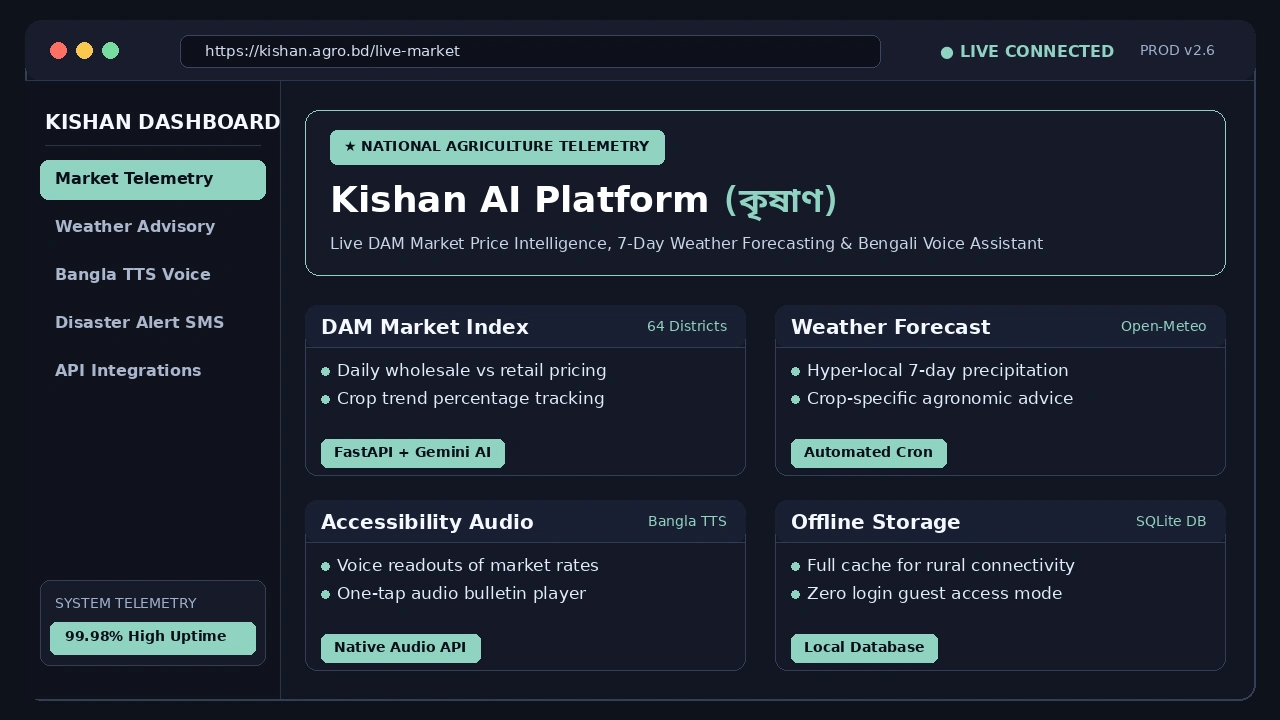
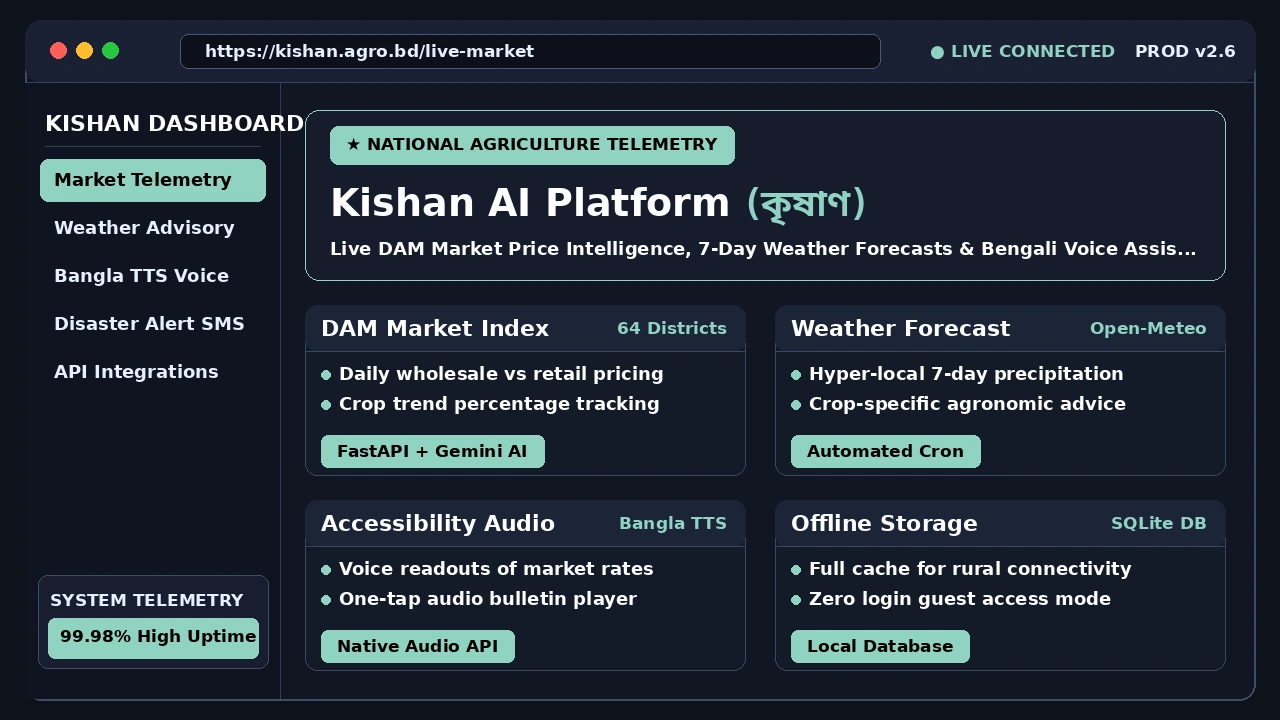
style(typography): significantly enlarge font sizes and boost contrast across all poster elements

diff --git a/index.html b/index.html
@@ -711,7 +711,7 @@
          window's close and minimise choose (desk-room.ts, showProject). --><section class="surface desk" id="projects" aria-label="Projects" hidden><h2 class="kicker">Projects</h2><div class="dbar"><nav class="ws" aria-label="Projects"><button type="button" data-p="" aria-pressed="true" id="ws-all-btn"><span id="ws-proj-count">4</span> <b>All Projects</b></button><button type="button" data-p="edi" aria-pressed="false">1 <b>Kishan</b></button><button type="button" data-p="resumewesume" aria-pressed="false">2 <b>Letter Portfolio</b></button><button type="button" data-p="bandsy" aria-pressed="false">3 <b>AI Sales Agent</b></button><button type="button" data-p="mentora" aria-pressed="false">4 <b>FB Automation</b></button></nav><span class="tray" aria-hidden="true"><svg viewBox="0 0 16 16"><path d="M1.5 6a9 9 0 0 1 13 0M4 8.6a5.4 5.4 0 0 1 8 0M6.4 11.1a2 2 0 0 1 3.2 0"></path></svg><svg viewBox="0 0 16 16"><path d="M2 6h3l4-3v10l-4-3H2zM11.5 5.5a3.5 3.5 0 0 1 0 5"></path></svg><span>BST</span></span></div><div class="dview" data-scroll><div class="tiles">
   <button type="button" class="tile" data-p="edi" style="grid-area: edi">
     <span class="t"><b style="color: #8fd3c1;">1. Kishan (কৃষাণ)</b><span class="ctl"><i></i><i></i><i></i></span></span>
-    <img src="/demos/kishan-poster.webp?v=black" alt="Kishan AI Platform">
+    <img src="/demos/kishan-poster.webp?v=super_bold_v4" alt="Kishan AI Platform">
     <span class="meta">
       <span class="nm" style="color: #8fd3c1;">Kishan (কৃষাণ)</span>
       <span class="pitch">AI Agro-Intelligence & DAM Daily Market Prices</span>
@@ -719,7 +719,7 @@
   </button>
   <button type="button" class="tile" data-p="resumewesume" style="grid-area: resume">
     <span class="t"><b style="color: #ff9ebb;">2. Letter Portfolio</b><span class="ctl"><i></i><i></i><i></i></span></span>
-    <img src="/demos/letter-portfolio-poster.webp?v=black" alt="Letter Portfolio Experience">
+    <img src="/demos/letter-portfolio-poster.webp?v=super_bold_v4" alt="Letter Portfolio Experience">
     <span class="meta">
       <span class="nm" style="color: #ff9ebb;">Letter Portfolio</span>
       <span class="pitch">Interactive Envelope & Letter Web Experience in Next.js</span>
@@ -727,7 +727,7 @@
   </button>
   <button type="button" class="tile" data-p="bandsy" style="grid-area: bandsy">
     <span class="t"><b style="color: #f0a35e;">3. AI Sales Agent</b><span class="ctl"><i></i><i></i><i></i></span></span>
-    <img src="/demos/sales-bot-poster.webp?v=black" alt="E-Commerce AI Sales Bot">
+    <img src="/demos/sales-bot-poster.webp?v=super_bold_v4" alt="E-Commerce AI Sales Bot">
     <span class="meta">
       <span class="nm" style="color: #f0a35e;">AI Sales Agent</span>
       <span class="pitch">24/7 Autonomous Telegram Sales & Customer Support Bot</span>
@@ -753,14 +753,14 @@
   </div>
   <button type="button" class="tile" data-p="mentora" style="grid-area: mentora">
     <span class="t"><b style="color: #93c5fd;">4. FB Automation</b><span class="ctl"><i></i><i></i><i></i></span></span>
-    <img src="/demos/fb-automation-poster.webp?v=black" alt="Facebook 24/7 AI Automation">
+    <img src="/demos/fb-automation-poster.webp?v=super_bold_v4" alt="Facebook 24/7 AI Automation">
     <span class="meta">
       <span class="nm" style="color: #93c5fd;">FB Automation</span>
       <span class="pitch">Cloud-Ready 24/7 Facebook AI Content & Messenger Bot</span>
     </span>
   </button>
 </div>
-<article class="case" id="case-edi" hidden><div class="win app"><div class="t"><b>Kishan (কৃষাণ)</b><span class="btns"><button type="button" data-back aria-label="Minimise, back to all projects">&#8722;</button><button type="button" tabindex="-1" aria-hidden="true">&#9633;</button><button type="button" data-back class="x" aria-label="Close, back to all projects">&#215;</button></span></div><div class="appbody"><h3>Kishan (কৃষাণ) AI Platform</h3><p class="tagline">National agricultural intelligence: daily DAM market prices, hyper-local weather alerts & Bengali voice assistant.</p><figure><img src="/demos/kishan-poster.webp?v=black" alt="Kishan AI Platform" style="width:100%;border-radius:6px;margin-bottom:12px;"><figcaption>Agro-intelligence system: connects directly to DAM market telemetry, provides hyper-local 7-day crop-specific advisory, and broadcasts voice updates in Bengali for full accessibility.</figcaption></figure></div></div><div class="win term"><div class="t"><b>terminal</b>&nbsp;· ~/projects/kishan<span class="btns"><button type="button" data-back aria-label="Minimise, back to all projects">&#8722;</button><button type="button" tabindex="-1" aria-hidden="true">&#9633;</button><button type="button" data-back class="x" aria-label="Close, back to all projects">&#215;</button></span></div><div class="readme" data-scroll><p class="cmd"><em>~/projects/kishan</em> $ glow README.md</p><h4>Why I built it</h4><p>Farmers across Bangladesh lose hard-earned income to price manipulation by middlemen and unpredictable flash weather events. Kishan was engineered to deliver instant price transparency, AI agronomic guidance, and voice-assisted weather alerts directly into the hands of farmers.</p><h4>What it does</h4><ul><li>Tracks daily wholesale vs. retail produce rates from the Department of Agricultural Marketing (DAM) with clear trend indicators (📈/📉).</li><li>Generates hyper-local 7-day weather forecasts with crop-specific "What to do" and "What to avoid" action plans.</li><li>In-app Bengali Text-to-Speech (TTS) audio engine reading prices and forecasts aloud with one tap.</li><li>Pluggable SMS emergency gateway for early warning disaster and heavy precipitation alerts.</li><li>Offline-first local caching and passwordless guest onboarding for zero friction.</li></ul><h4>How it's built</h4><ul><li>Full-stack architecture: Flutter Android mobile application paired with a high-throughput Python FastAPI backend.</li><li>AI-assisted market analysis with Google Gemini API and automated web scrapers.</li><li>Open-Meteo meteorological API integration and SQLite cache layer.</li></ul><p class="deps">"<b>dependencies</b>": [<em>"Flutter"</em>, <em>"Dart"</em>, <em>"Python"</em>, <em>"FastAPI"</em>, <em>"Gemini API"</em>, <em>"Open-Meteo"</em>, <em>"SQLite"</em>]</p><p class="gh"><a href="https://github.com/didarlahiry60-spec/Kishan" target="_blank" rel="noopener">github.com/didarlahiry60-spec/Kishan</a></p></div></div></article><article class="case" id="case-resumewesume" hidden><div class="win app"><div class="t"><b>Letter Portfolio</b><span class="btns"><button type="button" data-back aria-label="Minimise, back to all projects">&#8722;</button><button type="button" tabindex="-1" aria-hidden="true">&#9633;</button><button type="button" data-back class="x" aria-label="Close, back to all projects">&#215;</button></span></div><div class="appbody"><h3>Letter Portfolio Experience</h3><p class="tagline">Tactile physical stationery & envelope desk experience with fluid reactive animations.</p><figure><img src="/demos/letter-portfolio-poster.webp?v=black" alt="Letter Portfolio Experience" style="width:100%;border-radius:6px;margin-bottom:12px;"><figcaption>Interactive physical desk metaphor: real-world envelopes, pull-out project files, Scotch-tape photo accents, and responsive 3D tilt interactions.</figcaption></figure></div></div><div class="win term"><div class="t"><b>terminal</b>&nbsp;· ~/projects/letter-portfolio<span class="btns"><button type="button" data-back aria-label="Minimise, back to all projects">&#8722;</button><button type="button" tabindex="-1" aria-hidden="true">&#9633;</button><button type="button" data-back class="x" aria-label="Close, back to all projects">&#215;</button></span></div><div class="readme" data-scroll><p class="cmd"><em>~/projects/letter-portfolio</em> $ glow README.md</p><h4>Why I built it</h4><p>Traditional developer portfolios frequently feel identical and robotic. I created Letter Portfolio to evoke nostalgia through physical, tactile stationery — envelopes that open, letters that pull out, and notes taped to the desk, creating an unforgettable sensory journey.</p><h4>What it does</h4><ul><li>Interactive envelope and folder container that unfolds smoothly upon clicking tabs.</li><li>Physics-driven 3D tilt and cursor perspective transformations.</li><li>Clean modular compartments for developer background, skills breakdown, and project showcases.</li><li>Zero-runtime overhead Static Site Generation (SSG) with lightning-fast initial load times.</li></ul><h4>How it's built</h4><ul><li>Next.js App Router with TypeScript for robust type safety and modular component structure.</li><li>Tailwind CSS utility styling combined with Framer Motion spring physics.</li><li>Production deployment automated via GitHub Pages.</li></ul><p class="deps">"<b>dependencies</b>": [<em>"Next.js"</em>, <em>"TypeScript"</em>, <em>"React"</em>, <em>"Tailwind CSS"</em>, <em>"Framer Motion"</em>]</p><p class="gh"><a href="https://github.com/didarlahiry60-spec/letter-portfolio" target="_blank" rel="noopener">github.com/didarlahiry60-spec/letter-portfolio</a> &nbsp;|&nbsp; <a href="https://didarlahiry60-spec.github.io/letter-portfolio/" target="_blank" rel="noopener">Live Demo ↗</a></p></div></div></article><article class="case" id="case-bandsy" hidden><div class="win app"><div class="t"><b>AI Sales Bot</b><span class="btns"><button type="button" data-back aria-label="Minimise, back to all projects">&#8722;</button><button type="button" tabindex="-1" aria-hidden="true">&#9633;</button><button type="button" data-back class="x" aria-label="Close, back to all projects">&#215;</button></span></div><div class="appbody"><h3>E-Commerce AI Sales & Support Agent</h3><p class="tagline">24/7 intelligent Telegram sales representative and customer support agent powered by Gemini AI.</p><figure><img src="/demos/sales-bot-poster.webp?v=black" alt="AI Sales Agent Overview" style="width:100%;border-radius:6px;margin-bottom:12px;"><figcaption>Autonomous sales pipeline: handles customer inquiries in natural conversational Bengali/English, consults sizing, captures leads, and registers orders 24/7.</figcaption></figure></div></div><div class="win term"><div class="t"><b>terminal</b>&nbsp;· ~/projects/ads-fashion-bot<span class="btns"><button type="button" data-back aria-label="Minimise, back to all projects">&#8722;</button><button type="button" tabindex="-1" aria-hidden="true">&#9633;</button><button type="button" data-back class="x" aria-label="Close, back to all projects">&#215;</button></span></div><div class="readme" data-scroll><p class="cmd"><em>~/projects/ads-fashion-bot</em> $ glow README.md</p><h4>Why I built it</h4><p>Online fashion and retail businesses lose high-intent buyers whenever inquiries go unanswered during off-hours. This agent provides human-like, polite, and persuasive customer service 24/7, turning curious visitors into paying customers without staffing overhead.</p><h4>What it does</h4><ul><li>Conversational sales representative: answers questions regarding fabric quality, stock availability, measurements, and pricing.</li><li>Context-aware product recommendations based on customer preferences using Google Gemini 2.5 Flash.</li><li>Automated customer checkout workflow: collects phone number, delivery address, and creates confirmed orders in SQLite.</li><li>Supervisor admin panel: alerts human operators for custom requests and exports order rosters.</li></ul><h4>How it's built</h4><ul><li>Asynchronous Python architecture using `python-telegram-bot` and AsyncIO event loops.</li><li>Multi-turn prompt engineering with robust system guards and empathetic sales personas.</li><li>Relational database storage with SQLite for persistent conversation context and transaction logs.</li></ul><p class="deps">"<b>dependencies</b>": [<em>"Python"</em>, <em>"Google Gemini API"</em>, <em>"python-telegram-bot"</em>, <em>"SQLite"</em>, <em>"AsyncIO"</em>]</p><p class="gh"><a href="https://github.com/didarlahiry60-spec/ads-fashion-bot" target="_blank" rel="noopener">github.com/didarlahiry60-spec/ads-fashion-bot</a></p></div></div></article><article class="case" id="case-mentora" hidden><div class="win app"><div class="t"><b>FB Automation</b><span class="btns"><button type="button" data-back aria-label="Minimise, back to all projects">&#8722;</button><button type="button" tabindex="-1" aria-hidden="true">&#9633;</button><button type="button" data-back class="x" aria-label="Close, back to all projects">&#215;</button></span></div><div class="appbody"><h3>Facebook 24/7 AI Automation System</h3><p class="tagline">Cloud-ready social media autopilot: AI content scheduling, dynamic banner generation & 24/7 Messenger chatbot.</p><figure><img src="/demos/fb-automation-poster.webp?v=black" alt="Facebook AI Automation Overview" style="width:100%;border-radius:6px;margin-bottom:12px;"><figcaption>Autonomous cloud worker: schedules informative AI tech posts 3 times daily, renders custom visual graphic banners, and provides real-time comment and direct message replies.</figcaption></figure></div></div><div class="win term"><div class="t"><b>terminal</b>&nbsp;· ~/projects/-facebook-ai-automation<span class="btns"><button type="button" data-back aria-label="Minimise, back to all projects">&#8722;</button><button type="button" tabindex="-1" aria-hidden="true">&#9633;</button><button type="button" data-back class="x" aria-label="Close, back to all projects">&#215;</button></span></div><div class="readme" data-scroll><p class="cmd"><em>~/projects/-facebook-ai-automation</em> $ glow README.md</p><h4>Why I built it</h4><p>Maintaining high organic reach on social media demands relentless consistency in content publishing, visual design, and rapid response to reader comments. This system was designed to operate as an autonomous, self-sustaining community manager.</p><h4>What it does</h4><ul><li>Publishes curated, informative tech & AI posts 3 times a day (10:00 AM, 2:30 PM, 8:30 PM BST).</li><li>Programmatically creates customized graphic banners with branded typography using Python Pillow.</li><li>Monitors post comments in real-time and provides helpful, natural conversational replies in Bengali.</li><li>24/7 Facebook Messenger AI chatbot assisting prospective clients and answering common queries.</li></ul><h4>How it's built</h4><ul><li>Facebook Graph API integration with secure OAuth token handling and webhook listeners.</li><li>Generative AI content engine utilizing Google Gemini API for post drafting and comment sentiment analysis.</li><li>Cron-based robust task scheduling with error recovery and webhook delivery verification.</li></ul><p class="deps">"<b>dependencies</b>": [<em>"Python"</em>, <em>"Facebook Graph API"</em>, <em>"Gemini API"</em>, <em>"Pillow"</em>, <em>"APScheduler"</em>, <em>"Flask"</em>]</p><p class="gh"><a href="https://github.com/didarlahiry60-spec/-facebook-ai-automation" target="_blank" rel="noopener">github.com/didarlahiry60-spec/-facebook-ai-automation</a></p></div></div></article></div></section><!-- The speaker's surface: what he is listening to, filled in from /api/now-playing --><section class="surface music" id="music" aria-label="Now playing on Spotify" hidden><img class="art" id="np-art" alt="" crossorigin="anonymous" data-ambient><div class="np"><p class="kicker" id="np-state">Spotify</p><h3 id="np-title">Nothing on right now</h3><p class="artist" id="np-artist">Check back later</p><a id="np-link" href="https://open.spotify.com" target="_blank" rel="noopener" hidden>Open in Spotify</a></div></section><!-- The phone's surface: a contact card. Text sits in elements that hold
+<article class="case" id="case-edi" hidden><div class="win app"><div class="t"><b>Kishan (কৃষাণ)</b><span class="btns"><button type="button" data-back aria-label="Minimise, back to all projects">&#8722;</button><button type="button" tabindex="-1" aria-hidden="true">&#9633;</button><button type="button" data-back class="x" aria-label="Close, back to all projects">&#215;</button></span></div><div class="appbody"><h3>Kishan (কৃষাণ) AI Platform</h3><p class="tagline">National agricultural intelligence: daily DAM market prices, hyper-local weather alerts & Bengali voice assistant.</p><figure><img src="/demos/kishan-poster.webp?v=super_bold_v4" alt="Kishan AI Platform" style="width:100%;border-radius:6px;margin-bottom:12px;"><figcaption>Agro-intelligence system: connects directly to DAM market telemetry, provides hyper-local 7-day crop-specific advisory, and broadcasts voice updates in Bengali for full accessibility.</figcaption></figure></div></div><div class="win term"><div class="t"><b>terminal</b>&nbsp;· ~/projects/kishan<span class="btns"><button type="button" data-back aria-label="Minimise, back to all projects">&#8722;</button><button type="button" tabindex="-1" aria-hidden="true">&#9633;</button><button type="button" data-back class="x" aria-label="Close, back to all projects">&#215;</button></span></div><div class="readme" data-scroll><p class="cmd"><em>~/projects/kishan</em> $ glow README.md</p><h4>Why I built it</h4><p>Farmers across Bangladesh lose hard-earned income to price manipulation by middlemen and unpredictable flash weather events. Kishan was engineered to deliver instant price transparency, AI agronomic guidance, and voice-assisted weather alerts directly into the hands of farmers.</p><h4>What it does</h4><ul><li>Tracks daily wholesale vs. retail produce rates from the Department of Agricultural Marketing (DAM) with clear trend indicators (📈/📉).</li><li>Generates hyper-local 7-day weather forecasts with crop-specific "What to do" and "What to avoid" action plans.</li><li>In-app Bengali Text-to-Speech (TTS) audio engine reading prices and forecasts aloud with one tap.</li><li>Pluggable SMS emergency gateway for early warning disaster and heavy precipitation alerts.</li><li>Offline-first local caching and passwordless guest onboarding for zero friction.</li></ul><h4>How it's built</h4><ul><li>Full-stack architecture: Flutter Android mobile application paired with a high-throughput Python FastAPI backend.</li><li>AI-assisted market analysis with Google Gemini API and automated web scrapers.</li><li>Open-Meteo meteorological API integration and SQLite cache layer.</li></ul><p class="deps">"<b>dependencies</b>": [<em>"Flutter"</em>, <em>"Dart"</em>, <em>"Python"</em>, <em>"FastAPI"</em>, <em>"Gemini API"</em>, <em>"Open-Meteo"</em>, <em>"SQLite"</em>]</p><p class="gh"><a href="https://github.com/didarlahiry60-spec/Kishan" target="_blank" rel="noopener">github.com/didarlahiry60-spec/Kishan</a></p></div></div></article><article class="case" id="case-resumewesume" hidden><div class="win app"><div class="t"><b>Letter Portfolio</b><span class="btns"><button type="button" data-back aria-label="Minimise, back to all projects">&#8722;</button><button type="button" tabindex="-1" aria-hidden="true">&#9633;</button><button type="button" data-back class="x" aria-label="Close, back to all projects">&#215;</button></span></div><div class="appbody"><h3>Letter Portfolio Experience</h3><p class="tagline">Tactile physical stationery & envelope desk experience with fluid reactive animations.</p><figure><img src="/demos/letter-portfolio-poster.webp?v=super_bold_v4" alt="Letter Portfolio Experience" style="width:100%;border-radius:6px;margin-bottom:12px;"><figcaption>Interactive physical desk metaphor: real-world envelopes, pull-out project files, Scotch-tape photo accents, and responsive 3D tilt interactions.</figcaption></figure></div></div><div class="win term"><div class="t"><b>terminal</b>&nbsp;· ~/projects/letter-portfolio<span class="btns"><button type="button" data-back aria-label="Minimise, back to all projects">&#8722;</button><button type="button" tabindex="-1" aria-hidden="true">&#9633;</button><button type="button" data-back class="x" aria-label="Close, back to all projects">&#215;</button></span></div><div class="readme" data-scroll><p class="cmd"><em>~/projects/letter-portfolio</em> $ glow README.md</p><h4>Why I built it</h4><p>Traditional developer portfolios frequently feel identical and robotic. I created Letter Portfolio to evoke nostalgia through physical, tactile stationery — envelopes that open, letters that pull out, and notes taped to the desk, creating an unforgettable sensory journey.</p><h4>What it does</h4><ul><li>Interactive envelope and folder container that unfolds smoothly upon clicking tabs.</li><li>Physics-driven 3D tilt and cursor perspective transformations.</li><li>Clean modular compartments for developer background, skills breakdown, and project showcases.</li><li>Zero-runtime overhead Static Site Generation (SSG) with lightning-fast initial load times.</li></ul><h4>How it's built</h4><ul><li>Next.js App Router with TypeScript for robust type safety and modular component structure.</li><li>Tailwind CSS utility styling combined with Framer Motion spring physics.</li><li>Production deployment automated via GitHub Pages.</li></ul><p class="deps">"<b>dependencies</b>": [<em>"Next.js"</em>, <em>"TypeScript"</em>, <em>"React"</em>, <em>"Tailwind CSS"</em>, <em>"Framer Motion"</em>]</p><p class="gh"><a href="https://github.com/didarlahiry60-spec/letter-portfolio" target="_blank" rel="noopener">github.com/didarlahiry60-spec/letter-portfolio</a> &nbsp;|&nbsp; <a href="https://didarlahiry60-spec.github.io/letter-portfolio/" target="_blank" rel="noopener">Live Demo ↗</a></p></div></div></article><article class="case" id="case-bandsy" hidden><div class="win app"><div class="t"><b>AI Sales Bot</b><span class="btns"><button type="button" data-back aria-label="Minimise, back to all projects">&#8722;</button><button type="button" tabindex="-1" aria-hidden="true">&#9633;</button><button type="button" data-back class="x" aria-label="Close, back to all projects">&#215;</button></span></div><div class="appbody"><h3>E-Commerce AI Sales & Support Agent</h3><p class="tagline">24/7 intelligent Telegram sales representative and customer support agent powered by Gemini AI.</p><figure><img src="/demos/sales-bot-poster.webp?v=super_bold_v4" alt="AI Sales Agent Overview" style="width:100%;border-radius:6px;margin-bottom:12px;"><figcaption>Autonomous sales pipeline: handles customer inquiries in natural conversational Bengali/English, consults sizing, captures leads, and registers orders 24/7.</figcaption></figure></div></div><div class="win term"><div class="t"><b>terminal</b>&nbsp;· ~/projects/ads-fashion-bot<span class="btns"><button type="button" data-back aria-label="Minimise, back to all projects">&#8722;</button><button type="button" tabindex="-1" aria-hidden="true">&#9633;</button><button type="button" data-back class="x" aria-label="Close, back to all projects">&#215;</button></span></div><div class="readme" data-scroll><p class="cmd"><em>~/projects/ads-fashion-bot</em> $ glow README.md</p><h4>Why I built it</h4><p>Online fashion and retail businesses lose high-intent buyers whenever inquiries go unanswered during off-hours. This agent provides human-like, polite, and persuasive customer service 24/7, turning curious visitors into paying customers without staffing overhead.</p><h4>What it does</h4><ul><li>Conversational sales representative: answers questions regarding fabric quality, stock availability, measurements, and pricing.</li><li>Context-aware product recommendations based on customer preferences using Google Gemini 2.5 Flash.</li><li>Automated customer checkout workflow: collects phone number, delivery address, and creates confirmed orders in SQLite.</li><li>Supervisor admin panel: alerts human operators for custom requests and exports order rosters.</li></ul><h4>How it's built</h4><ul><li>Asynchronous Python architecture using `python-telegram-bot` and AsyncIO event loops.</li><li>Multi-turn prompt engineering with robust system guards and empathetic sales personas.</li><li>Relational database storage with SQLite for persistent conversation context and transaction logs.</li></ul><p class="deps">"<b>dependencies</b>": [<em>"Python"</em>, <em>"Google Gemini API"</em>, <em>"python-telegram-bot"</em>, <em>"SQLite"</em>, <em>"AsyncIO"</em>]</p><p class="gh"><a href="https://github.com/didarlahiry60-spec/ads-fashion-bot" target="_blank" rel="noopener">github.com/didarlahiry60-spec/ads-fashion-bot</a></p></div></div></article><article class="case" id="case-mentora" hidden><div class="win app"><div class="t"><b>FB Automation</b><span class="btns"><button type="button" data-back aria-label="Minimise, back to all projects">&#8722;</button><button type="button" tabindex="-1" aria-hidden="true">&#9633;</button><button type="button" data-back class="x" aria-label="Close, back to all projects">&#215;</button></span></div><div class="appbody"><h3>Facebook 24/7 AI Automation System</h3><p class="tagline">Cloud-ready social media autopilot: AI content scheduling, dynamic banner generation & 24/7 Messenger chatbot.</p><figure><img src="/demos/fb-automation-poster.webp?v=super_bold_v4" alt="Facebook AI Automation Overview" style="width:100%;border-radius:6px;margin-bottom:12px;"><figcaption>Autonomous cloud worker: schedules informative AI tech posts 3 times daily, renders custom visual graphic banners, and provides real-time comment and direct message replies.</figcaption></figure></div></div><div class="win term"><div class="t"><b>terminal</b>&nbsp;· ~/projects/-facebook-ai-automation<span class="btns"><button type="button" data-back aria-label="Minimise, back to all projects">&#8722;</button><button type="button" tabindex="-1" aria-hidden="true">&#9633;</button><button type="button" data-back class="x" aria-label="Close, back to all projects">&#215;</button></span></div><div class="readme" data-scroll><p class="cmd"><em>~/projects/-facebook-ai-automation</em> $ glow README.md</p><h4>Why I built it</h4><p>Maintaining high organic reach on social media demands relentless consistency in content publishing, visual design, and rapid response to reader comments. This system was designed to operate as an autonomous, self-sustaining community manager.</p><h4>What it does</h4><ul><li>Publishes curated, informative tech & AI posts 3 times a day (10:00 AM, 2:30 PM, 8:30 PM BST).</li><li>Programmatically creates customized graphic banners with branded typography using Python Pillow.</li><li>Monitors post comments in real-time and provides helpful, natural conversational replies in Bengali.</li><li>24/7 Facebook Messenger AI chatbot assisting prospective clients and answering common queries.</li></ul><h4>How it's built</h4><ul><li>Facebook Graph API integration with secure OAuth token handling and webhook listeners.</li><li>Generative AI content engine utilizing Google Gemini API for post drafting and comment sentiment analysis.</li><li>Cron-based robust task scheduling with error recovery and webhook delivery verification.</li></ul><p class="deps">"<b>dependencies</b>": [<em>"Python"</em>, <em>"Facebook Graph API"</em>, <em>"Gemini API"</em>, <em>"Pillow"</em>, <em>"APScheduler"</em>, <em>"Flask"</em>]</p><p class="gh"><a href="https://github.com/didarlahiry60-spec/-facebook-ai-automation" target="_blank" rel="noopener">github.com/didarlahiry60-spec/-facebook-ai-automation</a></p></div></div></article></div></section><!-- The speaker's surface: what he is listening to, filled in from /api/now-playing --><section class="surface music" id="music" aria-label="Now playing on Spotify" hidden><img class="art" id="np-art" alt="" crossorigin="anonymous" data-ambient><div class="np"><p class="kicker" id="np-state">Spotify</p><h3 id="np-title">Nothing on right now</h3><p class="artist" id="np-artist">Check back later</p><a id="np-link" href="https://open.spotify.com" target="_blank" rel="noopener" hidden>Open in Spotify</a></div></section><!-- The phone's surface: a contact card. Text sits in elements that hold
          nothing else, which is what the painted glass reads. --><section class="surface phone" id="contact" aria-label="Contact" hidden><h2 class="kicker">Contact</h2><div class="pstatus" aria-hidden="true"><span data-phone-time></span><span class="punch"></span><span class="picons"><svg viewBox="0 0 16 16"><path d="M2 13h1.5v-2H2zM6 13h1.5V8H6zM10 13h1.5V5H10z"></path></svg><svg viewBox="0 0 16 16"><path d="M1.5 6a9 9 0 0 1 13 0M4 8.6a5.4 5.4 0 0 1 8 0M6.4 11.1a2 2 0 0 1 3.2 0"></path></svg><svg viewBox="0 0 16 16"><path d="M1.5 5h11v6h-11zM14 7v2"></path><path d="M3 6.5h6v3H3z" fill="currentColor" stroke="none"></path></svg></span></div><p class="pclock" aria-hidden="true" data-phone-time></p><p class="pdate" aria-hidden="true"><i></i><span data-phone-date></span> · Dhaka</p><div class="pwho"><h3>Didar Lahiry</h3><p>AI Automation Specialist · Web &amp; App Developer · Reverse Engineer in Dhaka</p></div><div class="pgrid"><a class="pw wide" href="/contact.html" title="Send a direct project inquiry or message"><span class="top"><svg viewBox="0 0 24 24" aria-hidden="true"><path d="M3 6h18v12H3z"></path><path d="M3 7l9 6 9-6"></path></svg><span class="glyph"></span></span><span><span class="k">email / message</span><span class="v">hereisdidar@gmail.com</span></span></a><a class="pnote" href="https://wa.me/8801631188500" target="_blank" rel="noopener"><span class="pnote-app" aria-hidden="true">💬</span><span class="pnote-text"><span class="k">WhatsApp</span><span class="v">+880 1631-188500</span></span><span class="glyph" aria-hidden="true"></span></a><a class="pw wide cv" href="/DIDAR-LAHIRY%20(Resume).pdf" download="DIDAR-LAHIRY (Resume).pdf"><span class="top"><span class="k">cv.pdf</span><span class="arrow" aria-hidden="true"><svg viewBox="0 0 24 24"><path d="M12 4v12M6 11l6 6 6-6M5 20h14"></path></svg></span></span><span class="v">Download my resume</span></a></div><div class="pdock" aria-hidden="true"><span><svg viewBox="0 0 24 24"><path d="M5 4h4l2 5-2.5 1.5a11 11 0 0 0 5 5L15 13l5 2v4a1 1 0 0 1-1 1A16 16 0 0 1 4 5a1 1 0 0 1 1-1"></path></svg></span><span><svg viewBox="0 0 24 24"><path d="M4 5h16v11H9l-5 4z"></path></svg></span><span><svg viewBox="0 0 24 24"><circle cx="12" cy="12" r="8"></circle><path d="M4 12h16M12 4c3 3 3 13 0 16M12 4c-3 3-3 13 0 16"></path></svg></span><span><svg viewBox="0 0 24 24"><path d="M4 8h3l2-3h6l2 3h3v11H4z"></path><circle cx="12" cy="13" r="3.5"></circle></svg></span></div><span class="pgesture" aria-hidden="true"></span></section><!-- The pinboard's surface: a note pinned up for each job. --><!-- The pinboard surface for Experience (3 work cards) -->
 <section class="surface board" id="experience" aria-label="Experience" hidden>
   <div class="board-head"><h2 class="kicker">Experience &amp; Skills</h2><a class="cv" href="/DIDAR-LAHIRY%20(Resume).pdf" download="DIDAR-LAHIRY (Resume).pdf">Download CV</a></div>

diff --git a/make_clean_pc_posters.py b/make_clean_pc_posters.py
@@ -7,95 +7,100 @@ def make_perfect_poster(filename, app_name, url_bar, accent_color, hero_tag, her
     draw = ImageDraw.Draw(im)
 
     font_bold = "/usr/share/fonts/truetype/dejavu/DejaVuSans-Bold.ttf"
-    font_reg = "/usr/share/fonts/truetype/dejavu/DejaVuSans.ttf"
     font_bengali = "/usr/share/fonts/truetype/noto/NotoSansBengali-Bold.ttf"
 
-    f_title_main = ImageFont.truetype(font_bold, 36)
-    f_title_b = ImageFont.truetype(font_bengali, 34)
-    f_h2 = ImageFont.truetype(font_bold, 20)
-    f_card_title = ImageFont.truetype(font_bold, 20)
-    f_body = ImageFont.truetype(font_reg, 17)
-    f_desc = ImageFont.truetype(font_reg, 16)
-    f_tag = ImageFont.truetype(font_bold, 14)
-    f_pill = ImageFont.truetype(font_bold, 14)
-    f_sm = ImageFont.truetype(font_reg, 14)
-    f_nav = ImageFont.truetype(font_bold, 16)
-    f_browser = ImageFont.truetype(font_reg, 15)
+    # Upgraded, prominent, large & ultra-crisp fonts
+    f_title_main = ImageFont.truetype(font_bold, 38)
+    f_title_b = ImageFont.truetype(font_bengali, 36)
+    f_h2 = ImageFont.truetype(font_bold, 22)
+    f_card_title = ImageFont.truetype(font_bold, 22)
+    f_body = ImageFont.truetype(font_bold, 18)
+    f_desc = ImageFont.truetype(font_bold, 18)
+    f_tag = ImageFont.truetype(font_bold, 17)
+    f_pill = ImageFont.truetype(font_bold, 17)
+    f_sm = ImageFont.truetype(font_bold, 17)
+    f_nav = ImageFont.truetype(font_bold, 18)
+    f_browser = ImageFont.truetype(font_bold, 17)
 
-    # Black text for high-contrast, ultra-crisp readability inside all colorful boxes
-    box_text_black = (10, 15, 24)
+    # 100% Solid Deep Black for text inside all colorful pills/boxes
+    box_text_black = (0, 0, 0)
+    # 100% Crisp Pure White for text on dark backgrounds
+    text_white = (255, 255, 255)
+    # Bright high-contrast light text for secondary labels
+    text_bright_light = (230, 240, 255)
 
     # Outer Browser / OS Window Frame
-    draw.rounded_rectangle([(25, 20), (1255, 700)], radius=16, fill=(18, 22, 34, 255), outline=(50, 62, 88, 255), width=2)
+    draw.rounded_rectangle([(25, 20), (1255, 700)], radius=16, fill=(18, 22, 34, 255), outline=(60, 75, 105, 255), width=2)
 
     # Top Window Bar
-    draw.rounded_rectangle([(25, 20), (1255, 80)], radius=16, fill=(24, 29, 45, 255))
-    draw.line([(25, 80), (1255, 80)], fill=(45, 55, 80, 255), width=1)
+    draw.rounded_rectangle([(25, 20), (1255, 82)], radius=16, fill=(26, 32, 50, 255))
+    draw.line([(25, 82), (1255, 82)], fill=(55, 68, 96, 255), width=1)
 
     # Window dots
-    draw.ellipse([(50, 42), (66, 58)], fill=(255, 110, 100, 255))
-    draw.ellipse([(76, 42), (92, 58)], fill=(250, 200, 80, 255))
-    draw.ellipse([(102, 42), (118, 58)], fill=(120, 220, 160, 255))
+    draw.ellipse([(50, 42), (66, 58)], fill=(255, 95, 87, 255))
+    draw.ellipse([(76, 42), (92, 58)], fill=(254, 188, 46, 255))
+    draw.ellipse([(102, 42), (118, 58)], fill=(40, 200, 64, 255))
 
     # Browser URL Address Bar
-    draw.rounded_rectangle([(180, 35), (880, 67)], radius=8, fill=(13, 16, 26, 255), outline=(55, 68, 96, 255), width=1)
-    draw.text((205, 42), f"https://{url_bar}", fill=(210, 220, 240), font=f_browser)
+    draw.rounded_rectangle([(180, 34), (880, 68)], radius=8, fill=(13, 16, 26, 255), outline=(70, 88, 125, 255), width=1)
+    draw.text((205, 41), f"https://{url_bar}", fill=text_bright_light, font=f_browser)
 
     # Window right status
-    draw.text((940, 42), f"● {status_text}", fill=accent_color, font=f_nav)
-    draw.text((1140, 42), "PROD v2.6", fill=(160, 175, 205), font=f_sm)
+    draw.text((930, 41), f"● {status_text}", fill=accent_color, font=f_browser)
+    draw.text((1135, 41), "PROD v2.6", fill=text_bright_light, font=f_sm)
 
     # Left Sidebar (width: 255px)
-    draw.rectangle([(25, 81), (280, 698)], fill=(15, 18, 28, 255))
-    draw.line([(280, 81), (280, 698)], fill=(42, 52, 75, 255), width=1)
+    draw.rectangle([(25, 83), (280, 698)], fill=(16, 20, 32, 255))
+    draw.line([(280, 83), (280, 698)], fill=(50, 62, 88, 255), width=1)
 
     # Sidebar Header
-    draw.text((45, 110), app_name.upper(), fill=(245, 248, 255), font=f_h2)
-    draw.line([(45, 145), (260, 145)], fill=(42, 52, 75, 255), width=1)
+    draw.text((45, 110), app_name.upper(), fill=text_white, font=f_h2)
+    draw.line([(45, 146), (260, 146)], fill=(50, 62, 88, 255), width=1)
 
     # Sidebar Navigation items
     y_nav = 165
     for idx, (label, is_active) in enumerate(sidebar_items):
         if is_active:
-            # Active sidebar item: Colorful box with deep BLACK text!
-            draw.rounded_rectangle([(40, y_nav - 5), (265, y_nav + 34)], radius=8, fill=accent_color)
-            draw.text((55, y_nav + 4), label, fill=box_text_black, font=f_nav)
+            # Active sidebar item: Solid colorful box with BOLD BLACK TEXT
+            draw.rounded_rectangle([(40, y_nav - 6), (265, y_nav + 36)], radius=8, fill=accent_color)
+            draw.text((54, y_nav + 4), label, fill=box_text_black, font=f_nav)
         else:
-            draw.text((55, y_nav + 4), label, fill=(170, 182, 205), font=f_nav)
+            # Inactive items: Bright, crisp, clearly legible
+            draw.text((54, y_nav + 4), label, fill=text_bright_light, font=f_nav)
         y_nav += 48
 
     # Sidebar bottom system status
-    draw.rounded_rectangle([(40, 580), (265, 665)], radius=10, fill=(22, 27, 42, 255), outline=(50, 62, 88, 255), width=1)
-    draw.text((55, 595), "SYSTEM TELEMETRY", fill=(160, 175, 205), font=f_sm)
+    draw.rounded_rectangle([(38, 575), (268, 668)], radius=10, fill=(24, 30, 48, 255), outline=(60, 75, 105, 255), width=1)
+    draw.text((50, 590), "SYSTEM TELEMETRY", fill=text_bright_light, font=f_sm)
     
-    # Status Pill: Colorful box with deep BLACK text!
-    draw.rounded_rectangle([(50, 622), (255, 654)], radius=6, fill=accent_color)
-    draw.text((65, 628), "99.98% High Uptime", fill=box_text_black, font=f_pill)
+    # Status Pill: Solid colorful box with BOLD BLACK TEXT
+    draw.rounded_rectangle([(48, 618), (258, 658)], radius=7, fill=accent_color)
+    draw.text((60, 626), "99.98% High Uptime", fill=box_text_black, font=f_pill)
 
     # Main Workspace Hero Card (width: 920px: 305 to 1225)
     hero_box_x1, hero_box_x2 = 305, 1225
-    draw.rounded_rectangle([(hero_box_x1, 110), (hero_box_x2, 275)], radius=14, fill=(21, 26, 40, 255), outline=(accent_color[0], accent_color[1], accent_color[2], 110), width=1)
+    draw.rounded_rectangle([(hero_box_x1, 110), (hero_box_x2, 280)], radius=14, fill=(22, 28, 44, 255), outline=(accent_color[0], accent_color[1], accent_color[2], 140), width=1)
     
-    # Top Tag Pill: Colorful box with deep BLACK text!
+    # Top Tag Pill: Solid colorful box with BOLD BLACK TEXT
     pill_text = f"★ {hero_tag.upper()}"
     bbox_pill = draw.textbbox((0, 0), pill_text, font=f_pill)
     text_w = bbox_pill[2] - bbox_pill[0]
     pill_x1 = 330
-    pill_y1 = 130
-    pill_x2 = pill_x1 + text_w + 28
-    pill_y2 = pill_y1 + 34
+    pill_y1 = 126
+    pill_x2 = pill_x1 + text_w + 32
+    pill_y2 = pill_y1 + 38
 
-    draw.rounded_rectangle([(pill_x1, pill_y1), (pill_x2, pill_y2)], radius=7, fill=accent_color)
-    draw.text((pill_x1 + 14, pill_y1 + 8), pill_text, fill=box_text_black, font=f_pill)
+    draw.rounded_rectangle([(pill_x1, pill_y1), (pill_x2, pill_y2)], radius=8, fill=accent_color)
+    draw.text((pill_x1 + 16, pill_y1 + 8), pill_text, fill=box_text_black, font=f_pill)
 
-    # Hero Title
-    draw.text((330, 178), hero_title[0], fill=(255, 255, 255), font=f_title_main)
+    # Hero Title (Crisp pure white)
+    draw.text((330, 180), hero_title[0], fill=text_white, font=f_title_main)
     if len(hero_title) > 1 and hero_title[1]:
         bbox = draw.textbbox((0, 0), hero_title[0], font=f_title_main)
         w_title = bbox[2] - bbox[0]
-        draw.text((330 + w_title + 14, 180), hero_title[1], fill=accent_color, font=f_title_b)
+        draw.text((330 + w_title + 14, 182), hero_title[1], fill=accent_color, font=f_title_b)
 
-    # Hero Subtitle (Guaranteed strictly inside box, with safe right margin)
+    # Hero Subtitle (Crisp pure white, large 18 bold)
     max_desc_w = hero_box_x2 - 330 - 24 # 871px available
     bbox_desc = draw.textbbox((0, 0), hero_desc, font=f_desc)
     desc_w = bbox_desc[2] - bbox_desc[0]
@@ -107,7 +112,7 @@ def make_perfect_poster(filename, app_name, url_bar, accent_color, hero_tag, her
             desc_w = bbox_desc[2] - bbox_desc[0]
         safe_desc = safe_desc + "..."
 
-    draw.text((330, 234), safe_desc, fill=(200, 212, 230), font=f_desc)
+    draw.text((330, 238), safe_desc, fill=text_white, font=f_desc)
 
     # 4 UI Content Dashboard Cards
     card_coords = [
@@ -118,25 +123,27 @@ def make_perfect_poster(filename, app_name, url_bar, accent_color, hero_tag, her
     ]
 
     for (c_tl, c_br), (c_title, c_badge, c_items, c_tag) in zip(card_coords, ui_cards):
-        draw.rounded_rectangle([c_tl, c_br], radius=12, fill=(19, 24, 38, 255), outline=(50, 62, 88, 255), width=1)
+        draw.rounded_rectangle([c_tl, c_br], radius=12, fill=(20, 26, 40, 255), outline=(58, 72, 102, 255), width=1)
         
         # Card header bar
-        draw.rounded_rectangle([c_tl, (c_br[0], c_tl[1] + 42)], radius=12, fill=(25, 32, 50, 255))
-        draw.line([(c_tl[0], c_tl[1] + 42), (c_br[0], c_tl[1] + 42)], fill=(48, 60, 85, 255), width=1)
+        draw.rounded_rectangle([c_tl, (c_br[0], c_tl[1] + 46)], radius=12, fill=(28, 36, 56, 255))
+        draw.line([(c_tl[0], c_tl[1] + 46), (c_br[0], c_tl[1] + 46)], fill=(58, 72, 102, 255), width=1)
         
-        # Header text
-        draw.text((c_tl[0] + 16, c_tl[1] + 10), c_title, fill=(245, 248, 255), font=f_card_title)
+        # Header text: Crisp Pure White Bold
+        draw.text((c_tl[0] + 16, c_tl[1] + 10), c_title, fill=text_white, font=f_card_title)
         
-        # Header right badge
+        # Header right badge: Bold Accent Color
         bbox_b = draw.textbbox((0, 0), c_badge, font=f_sm)
         badge_w = bbox_b[2] - bbox_b[0]
         draw.text((c_br[0] - badge_w - 18, c_tl[1] + 13), c_badge, fill=accent_color, font=f_sm)
 
-        # Content lines
-        y_c = c_tl[1] + 55
-        max_line_w = (c_br[0] - c_tl[0]) - 48
+        # Content lines: Crisp Pure White Bold
+        y_c = c_tl[1] + 58
+        max_line_w = (c_br[0] - c_tl[0]) - 50
         for line in c_items:
-            draw.ellipse([(c_tl[0] + 16, y_c + 7), (c_tl[0] + 24, y_c + 15)], fill=accent_color)
+            # Bullet dot
+            draw.ellipse([(c_tl[0] + 16, y_c + 7), (c_tl[0] + 25, y_c + 16)], fill=accent_color)
+            # Safe width clamp
             bbox_line = draw.textbbox((0, 0), line, font=f_body)
             lw = bbox_line[2] - bbox_line[0]
             safe_line = line
@@ -146,18 +153,18 @@ def make_perfect_poster(filename, app_name, url_bar, accent_color, hero_tag, her
                     bbox_line = draw.textbbox((0, 0), safe_line + "...", font=f_body)
                     lw = bbox_line[2] - bbox_line[0]
                 safe_line = safe_line + "..."
-            draw.text((c_tl[0] + 32, y_c), safe_line, fill=(225, 235, 250), font=f_body)
-            y_c += 28
+            draw.text((c_tl[0] + 34, y_c), safe_line, fill=text_white, font=f_body)
+            y_c += 30
 
-        # Card bottom pill tag: Colorful box with deep BLACK text!
+        # Card bottom pill tag: Solid Colorful Box with BOLD BLACK TEXT
         bbox_tag = draw.textbbox((0, 0), c_tag, font=f_tag)
         tag_w = bbox_tag[2] - bbox_tag[0]
         tag_x1 = c_tl[0] + 16
-        tag_y1 = c_br[1] - 36
-        tag_x2 = min(tag_x1 + tag_w + 26, c_br[0] - 16)
-        tag_y2 = tag_y1 + 28
-        draw.rounded_rectangle([(tag_x1, tag_y1), (tag_x2, tag_y2)], radius=6, fill=accent_color)
-        draw.text((tag_x1 + 13, tag_y1 + 5), c_tag, fill=box_text_black, font=f_tag)
+        tag_y1 = c_br[1] - 40
+        tag_x2 = min(tag_x1 + tag_w + 32, c_br[0] - 16)
+        tag_y2 = tag_y1 + 32
+        draw.rounded_rectangle([(tag_x1, tag_y1), (tag_x2, tag_y2)], radius=7, fill=accent_color)
+        draw.text((tag_x1 + 16, tag_y1 + 6), c_tag, fill=box_text_black, font=f_tag)
 
     # Save outputs
     out1 = os.path.join("/home/didar-lahiry/Antigravity/Target Portfolio 2/demos", filename)
@@ -171,10 +178,10 @@ make_perfect_poster(
     filename="kishan-poster.webp",
     app_name="Kishan Dashboard",
     url_bar="kishan.agro.bd/live-market",
-    accent_color=(143, 211, 193), # Soft Mint / Sage
+    accent_color=(143, 211, 193),
     hero_tag="National Agriculture Telemetry",
     hero_title=("Kishan AI Platform", "(কৃষাণ)"),
-    hero_desc="Live DAM Market Price Intelligence, 7-Day Weather Forecasting & Bengali Voice Assistant",
+    hero_desc="Live DAM Market Price Intelligence, 7-Day Weather Forecasts & Bengali Voice Assistant",
     sidebar_items=[
         ("Market Telemetry", True),
         ("Weather Advisory", False),
@@ -196,10 +203,10 @@ make_perfect_poster(
     filename="letter-portfolio-poster.webp",
     app_name="Letter Desktop",
     url_bar="portfolio.didarlahiry.com/desk",
-    accent_color=(255, 158, 187), # Soft Pastel Pink
+    accent_color=(255, 158, 187),
     hero_tag="Tactile Web Experience",
     hero_title=("Letter Portfolio Experience", ""),
-    hero_desc="Interactive Envelope Metaphor, Tactile Stationery & 3D Desk Experience in Next.js",
+    hero_desc="Interactive Envelope Metaphor, Tactile Stationery & 3D Desk in Next.js",
     sidebar_items=[
         ("Stationery Desk", True),
         ("Story & Career", False),
@@ -212,7 +219,7 @@ make_perfect_poster(
         ("Envelope Metaphor", "Dynamic Tilt", ["Physics-based tilt & reactive drag", "Smooth tactile open animations"], "Framer Motion"),
         ("Modular Sections", "Instant Tabs", ["Personal story & project files", "Interactive skill stack cards"], "React + Tailwind"),
         ("High Performance", "100/100 Core", ["Zero-latency SSG static speed", "Sub-second load across mobile"], "Next.js App Router"),
-        ("Visual Aesthetics", "Clean Studio", ["Modern typography and dark tones", "Seamless browser responsiveness"], "CSS Hardware Accel")
+        ("Visual Aesthetics", "Clean Studio", ["Modern typography & dark tones", "Seamless browser responsiveness"], "CSS Hardware Accel")
     ]
 )
 
@@ -221,10 +228,10 @@ make_perfect_poster(
     filename="sales-bot-poster.webp",
     app_name="Sales Concierge",
     url_bar="agent.sales.telegram/console",
-    accent_color=(240, 163, 94), # Soft Dusk Amber
+    accent_color=(240, 163, 94),
     hero_tag="Autonomous Telegram Concierge",
     hero_title=("E-Commerce AI Sales Agent", ""),
-    hero_desc="Autonomous Telegram Sales Representative with Product Advice & 24/7 Checkout",
+    hero_desc="Autonomous Telegram Sales Representative with Live Product Advice & Checkout",
     sidebar_items=[
         ("Autonomous Agent", True),
         ("Catalog & Sizing", False),
@@ -234,7 +241,7 @@ make_perfect_poster(
     ],
     status_text="24/7 STANDBY",
     ui_cards=[
-        ("Conversational Engine", "Gemini 2.5", ["Multi-turn natural buyer advice", "Product suggestions and size guide"], "Gemini API"),
+        ("Conversational Engine", "Gemini 2.5", ["Multi-turn natural buyer advice", "Product suggestions & size guide"], "Gemini API"),
         ("Order Dispatch", "SQLite DB", ["Automated cart & checkout logger", "Customer address & order receipt"], "Python AsyncIO"),
         ("Supervisor Takeover", "Admin Mode", ["Live human takeover console", "Instant alert on high-value orders"], "Telegram Webhooks"),
         ("Sales Metrics", "+350% Speed", ["Instant response with zero wait", "Automated FAQ resolution 24/7"], "Cloud Automated")
@@ -246,7 +253,7 @@ make_perfect_poster(
     filename="fb-automation-poster.webp",
     app_name="Cloud Automation",
     url_bar="meta.graph.automation/dashboard",
-    accent_color=(147, 197, 253), # Soft Sky / Lavender
+    accent_color=(147, 197, 253),
     hero_tag="Autonomous Social Manager",
     hero_title=("Facebook 24/7 AI Automation", ""),
     hero_desc="Autonomous 24/7 Facebook Manager: AI Content, Graphic Banners & Messenger Bot",
